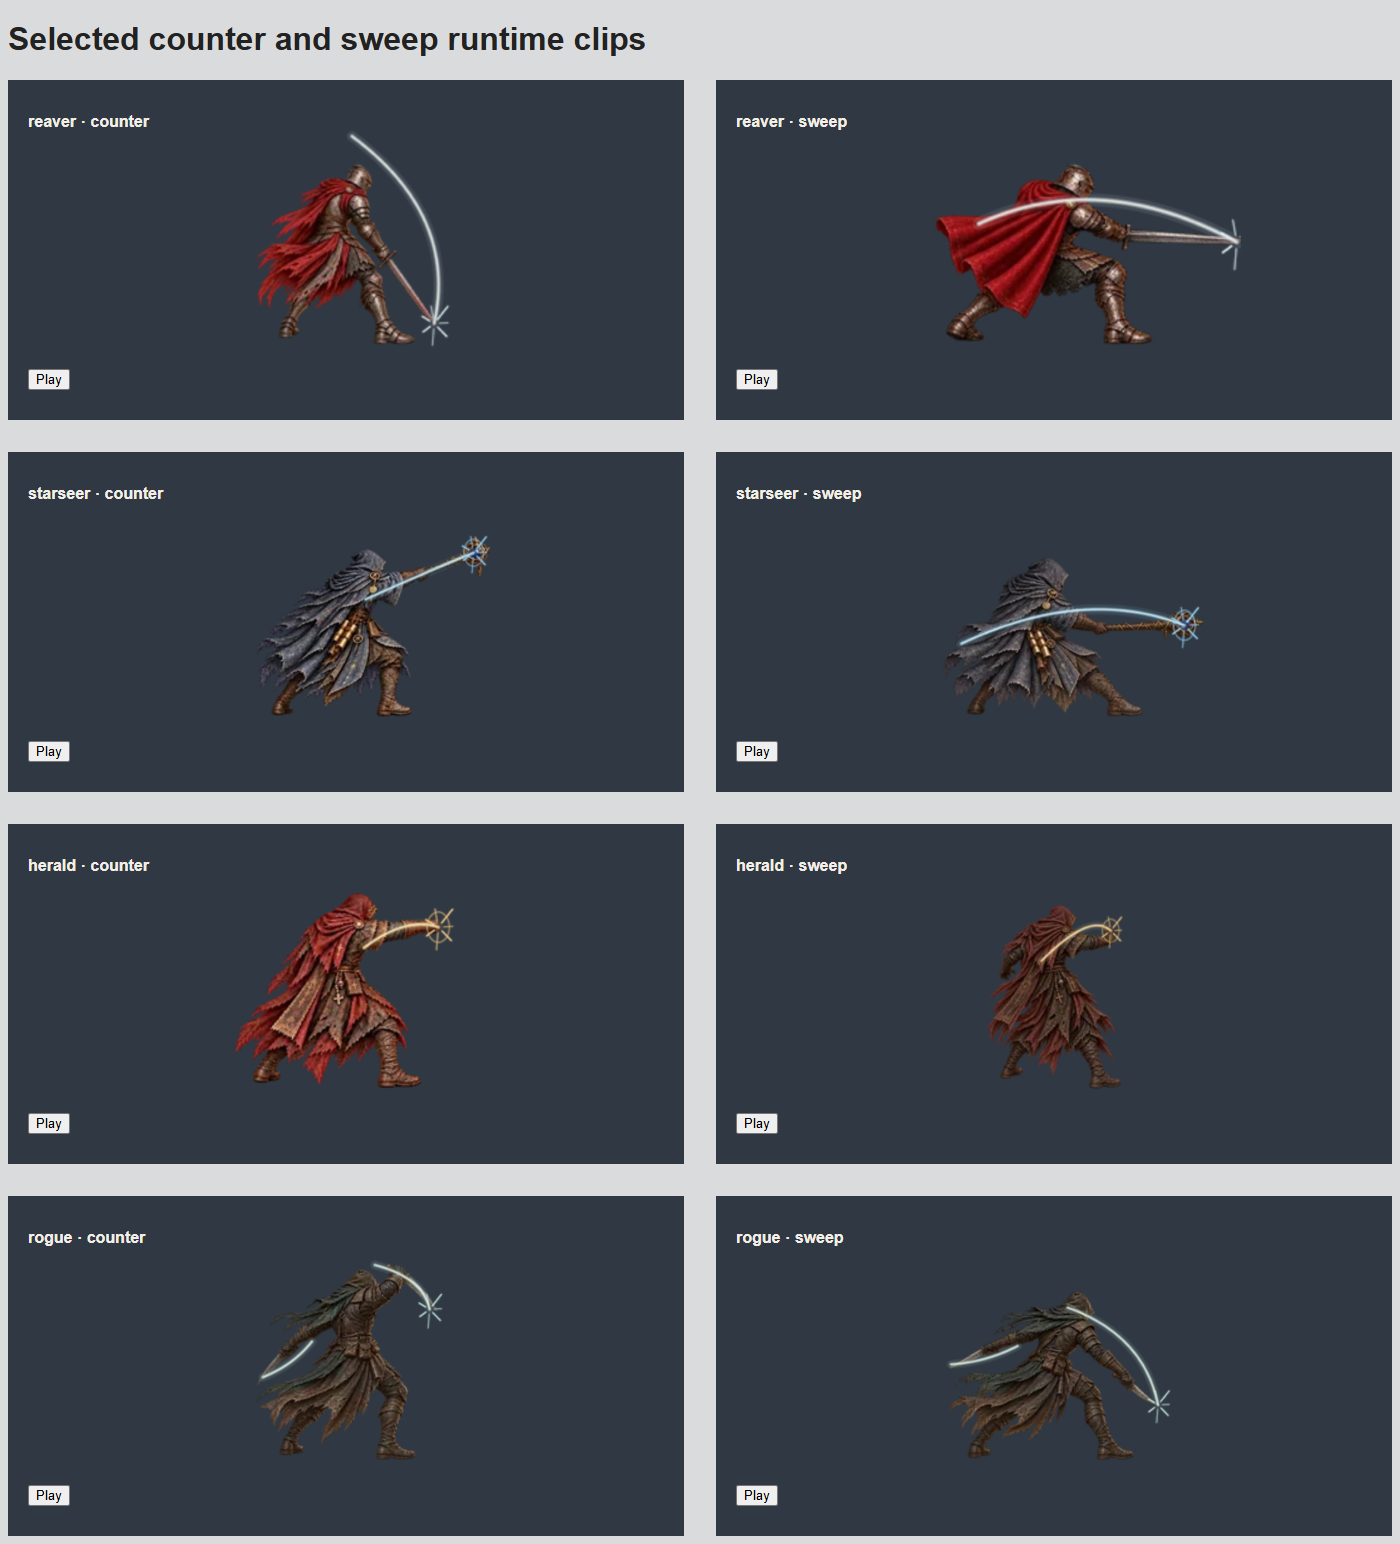
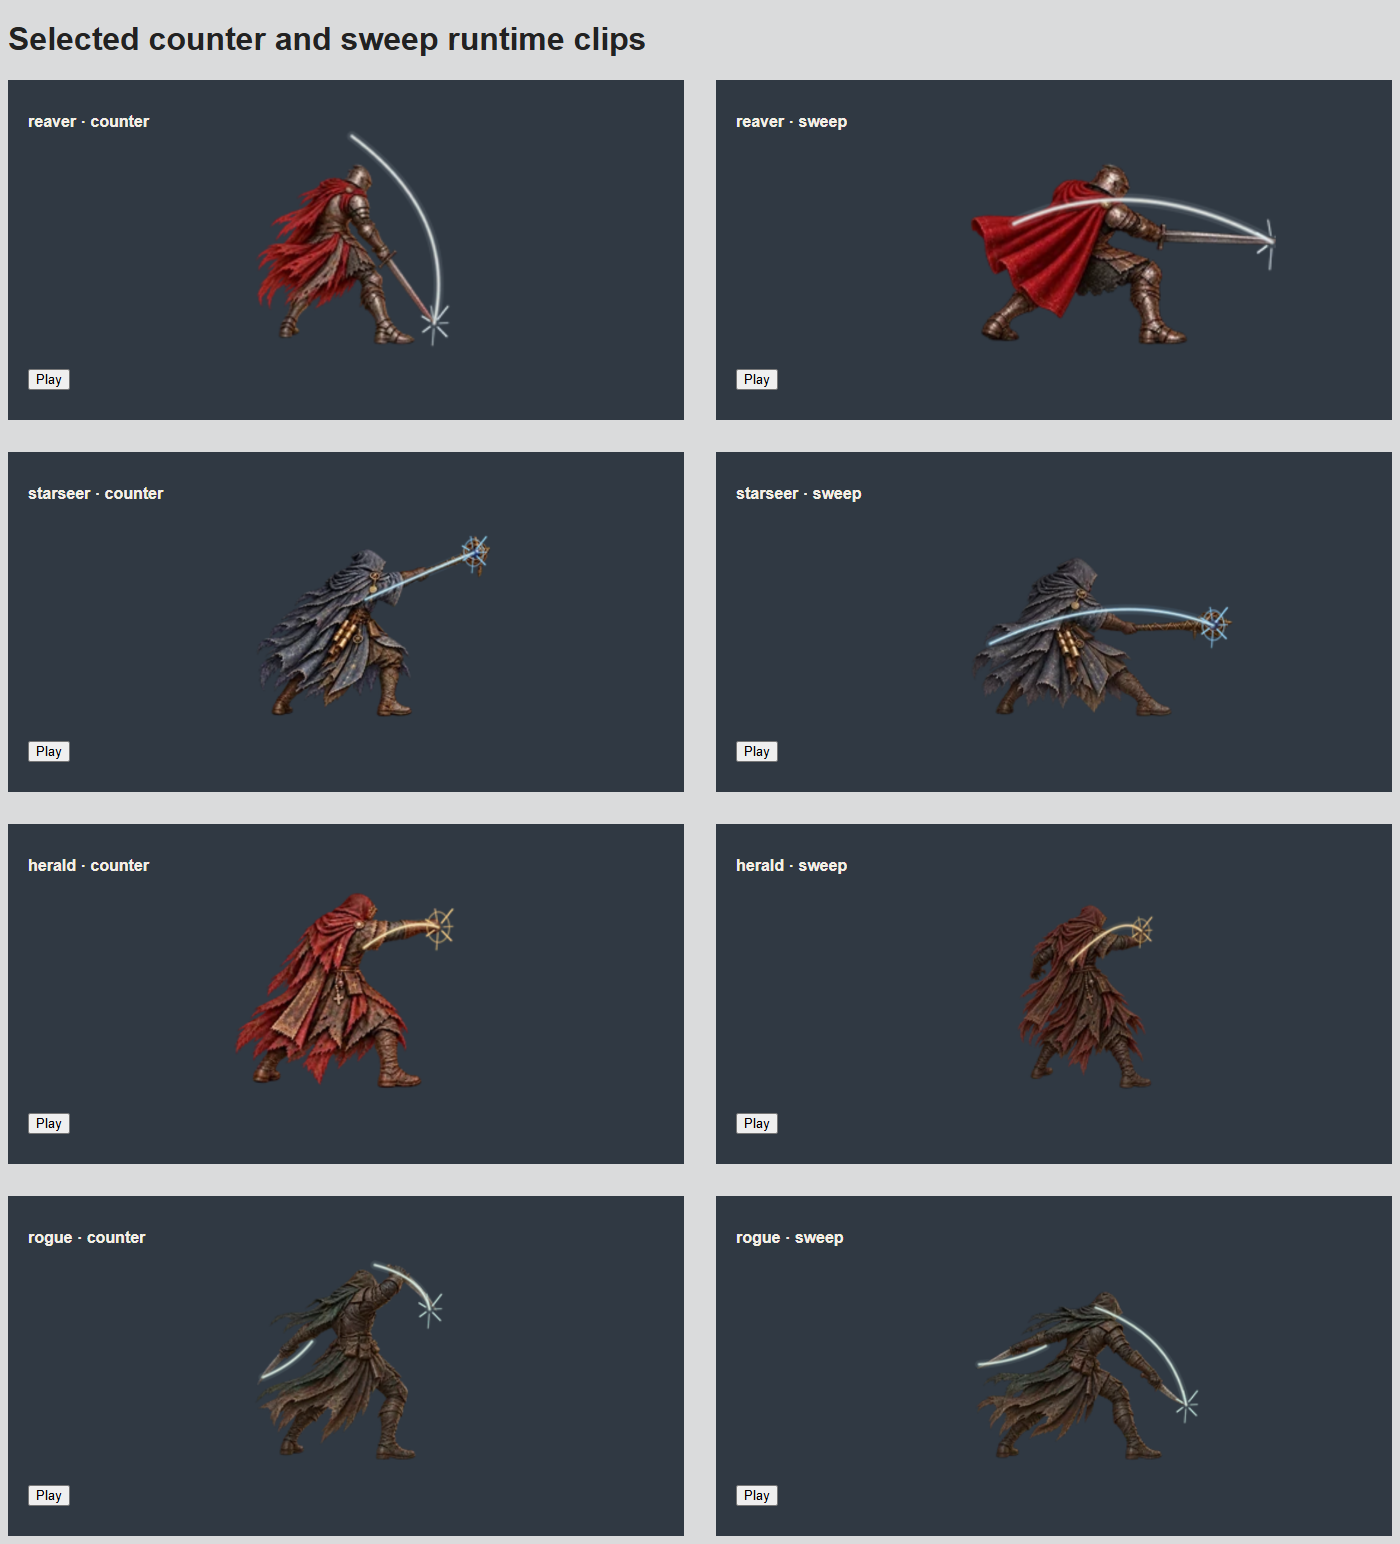
Route triggered counters to selected clips and retain sweep travel

diff --git a/src/ui/screens/combat.js b/src/ui/screens/combat.js
@@ -300,8 +300,8 @@ export function mountCombat(app, { registries, run, combat, meta, onEnd, showTut
         availablePoses: stage?.poses || [],
       });
       if (played && definition) {
-        const grouped = (!returned && visualPlans.get(played.cardInstanceId)) || resolveCombatAnimation({ ...definition, cardTags: tags, animationTags: combatEffectTags(registries, definition) }, equippedPieces(registries, run.loadout, run.class), { animation: equipmentAnimationForLoadout(registries, run.loadout, run.class), classId: run.class, appearance: displayAppearance(), combatExpansionVersion: combat.combatExpansionVersion, action: plan });
-        const pose = stage?.setRestPose ? grouped.technique : grouped.group === 'attack' ? 'attack1' : grouped.group === 'defend' ? 'guard' : 'idle';
+        const grouped = (!returned && visualPlans.get(played.cardInstanceId)) || resolveCombatAnimation({ ...definition, cardTags: tags, animationTags: combatEffectTags(registries, definition) }, equippedPieces(registries, run.loadout, run.class), { animation: equipmentAnimationForLoadout(registries, run.loadout, run.class), classId: run.class, appearance: displayAppearance(), combatExpansionVersion: combat.combatExpansionVersion, counterTriggered: !!returned, action: plan });
+        const pose = stage?.setRestPose ? (!returned && grouped.technique === 'counter' ? 'counterPrepare' : grouped.technique) : grouped.group === 'attack' ? 'attack1' : grouped.group === 'defend' ? 'guard' : 'idle';
         plan = { ...plan, ...grouped, pose, spriteEffect: combatEffectPlan({ ...definition, cardTags: combatEffectTags(registries,definition) },played), effectEvents: beat.events, targetId: played.targetId || beat.events.find(e=>e.type==='damageDealt')?.targetId };
         actorEl.dataset.actionGroup = grouped.group;
       }

diff --git a/src/ui/screens/coop.js b/src/ui/screens/coop.js
@@ -2010,10 +2010,10 @@ export function mountCoop(app, { registries, conn, myId, myIds, meta, onSettings
           }
           const plan = resolveCombatAnimation(def, equippedPieces(registries, member?.loadout, member?.classId),
             { animation: equipmentAnimationForLoadout(registries, member?.loadout, member?.classId), classId: member?.classId,
-              appearance: displayAppearance(), combatExpansionVersion: next.scene.combatExpansionVersion });
+              appearance: displayAppearance(), combatExpansionVersion: next.scene.combatExpansionVersion, counterTriggered: !!returned });
           sprite.dataset.actionFamily = plan.family;
           sprite.dataset.actionMotion = plan.motion;
-          pose = stage?.setRestPose ? plan.technique : plan.group === 'attack' ? 'attack' : plan.group === 'defend' ? 'guard' : 'idle';
+          pose = stage?.setRestPose ? (!returned && plan.technique === 'counter' ? 'counterPrepare' : plan.technique) : plan.group === 'attack' ? 'attack' : plan.group === 'defend' ? 'guard' : 'idle';
         } else {
           const definition = registries.enemies.get(moved.enemyId)?.moves?.[moved.moveId];
           const plan = resolveActionAnimation({ actorId: moved.enemyId, actionId: moved.moveId,

diff --git a/src/ui/alternativeCardStage.js b/src/ui/alternativeCardStage.js
@@ -37,7 +37,13 @@ export function createAlternativeCardStage(classId, { still = false } = {}) {
   const attacks = Object.entries(playerAttackSprites[classId] || {});
   const family = { ...base,
     frames: { ...base.frames, ...selected.frames, ...Object.assign({}, ...attacks.map(([, entry]) => entry.frames)) },
-    sequences: { ...base.sequences, ...selected.sequences, ...Object.fromEntries(attacks.flatMap(([name, entry]) =>
+    sequences: { ...base.sequences, ...selected.sequences,
+      // Preserve the original forward sweep while fitting its four painted phases.
+      sweep: { ...selected.sequences.sweep, travel: [0,
+        base.sequences.sweep.travel[base.sequences.sweep.impact],
+        base.sequences.sweep.travel[base.sequences.sweep.impact + 1], 0] },
+      counterPrepare: { poses: [selected.stances.counter], durations: [260], impact: 0, travel: [0], hold: true },
+      ...Object.fromEntries(attacks.flatMap(([name, entry]) =>
       ['attack', 'spell', 'ranged', 'rangedMagic'].map(action => [`weapon:${action}:${name}`, { ...entry.sequence, action }]))) },
   };
   const heldFrames = { ...alternativeSelectedStances.classes[classId]?.frames,

diff --git a/src/model/combatAnimation.js b/src/model/combatAnimation.js
@@ -11,9 +11,12 @@ export const COMBAT_SEQUENCES = Object.freeze({
   shieldBash: ['shieldBash1', 'shieldBash2', 'shieldBash3'],
 });
 
-export function resolveCombatAnimation(card = {}, equipment = [], { animation, classId, appearance = 'alternative', combatExpansionVersion } = {}) {
+export function resolveCombatAnimation(card = {}, equipment = [], { animation, classId, appearance = 'alternative', combatExpansionVersion, counterTriggered = false } = {}) {
   const classDefault = appearance === 'alternative' ? cardActionPlan(card, classId) : null;
-  if (classDefault) return playerAttackPlan(card, equipment, classId, classDefault);
+  if (classDefault) {
+    const plan = playerAttackPlan(card, equipment, classId, classDefault);
+    return counterTriggered ? { ...plan, technique: 'counter', rest: null } : plan;
+  }
   // The card's kind tag decides the family of motion, not its `type` field.
   const kind = cardKind(card);
   const tags = new Set((card.cardTags || card.tags || []).map(tag => typeof tag === 'string' ? tag : tag.id));

diff --git a/src/content/changelog.generated.js b/src/content/changelog.generated.js
@@ -8,7 +8,7 @@ export const GENERATED_CHANGELOG = Object.freeze([
     "group": "2026-10-10",
     "summary": "Selected counters and sweeps carry their weapon effects",
     "detail": "Reaver, Starseer, Herald and Rogue use the eight selected stance-to-attack clips with steel slashes, staff trails, palm impacts and dagger effects. Four phases return to the original ready frame, and combat and card previews share the same timing. Confirmed counters and physical sweeps keep their chosen preparation stance between actions; original idle, attack, defend and casting artwork stays intact. Reduced motion and reduced flashes clear the separate effect layers.",
-    "build": "0.7.1.1239",
+    "build": "0.7.1.1242",
     "pullRequest": 1800,
     "url": "https://github.com/cehinds/AshenSpire/pull/1800"
   },

diff --git a/CHANGELOG.md b/CHANGELOG.md
@@ -34,7 +34,7 @@ A receipt here names the pull request that landed a change; inventing one to fit
 
 ## 2026-10-10
 
-- **Selected counters and sweeps carry their weapon effects** ([#1800](https://github.com/cehinds/AshenSpire/pull/1800), `0.7.1.1239`). Reaver, Starseer, Herald and Rogue use the eight selected stance-to-attack clips with steel slashes, staff trails, palm impacts and dagger effects. Four phases return to the original ready frame, and combat and card previews share the same timing. Confirmed counters and physical sweeps keep their chosen preparation stance between actions; original idle, attack, defend and casting artwork stays intact. Reduced motion and reduced flashes clear the separate effect layers.
+- **Selected counters and sweeps carry their weapon effects** ([#1800](https://github.com/cehinds/AshenSpire/pull/1800), `0.7.1.1242`). Reaver, Starseer, Herald and Rogue use the eight selected stance-to-attack clips with steel slashes, staff trails, palm impacts and dagger effects. Four phases return to the original ready frame, and combat and card previews share the same timing. Confirmed counters and physical sweeps keep their chosen preparation stance between actions; original idle, attack, defend and casting artwork stays intact. Reduced motion and reduced flashes clear the separate effect layers.
 
 - **Enemy combat art gains painted action sets** ([#1795](https://github.com/cehinds/AshenSpire/pull/1795), `0.7.1.1236`). Integrate 33 enemy sets with melee, ranged, spell, guard and reaction frames through the shared art loader. Preserve existing action timing and reduced-motion behavior. The continuation handoff records remaining angle, clipping and halo review.
 

diff --git a/docs/preview/counter-sweep-20261009/README.md b/docs/preview/counter-sweep-20261009/README.md
@@ -6,6 +6,8 @@ Each action plays stance, contact, recovery and the existing ready frame in 55/6
 
 Confirmed counter and physical sweep cards select their new held player stance; the next turn resets that selection through the existing ledger. Defeat still takes priority. Enemy intent projection is unchanged. Solo, co-op and deck previews share the same stage and sequence data. The original idle, attack, defend and casting image files and catalogs remain unchanged.
 
+Playing a counter card holds its preparation frame without a swing or slash. The triggered counter reaction plays the selected return attack in both solo and co-op; card previews show that full clip.
+
 The art repository retains PNG sources, exact generation prompts, SVG effects, four portable Sprite Workshop projects, the selection JSON and the labeled Play/Pause/Step/Reset preview in `art/player-counter-sweep-2026-10-09/`. The asset release is pinned by `art-release.json`; `src/content/playerCounterSweepSprites.js` records the high-export hashes and shared 512px registration for 256px raster exports.
 
 ## Verification
